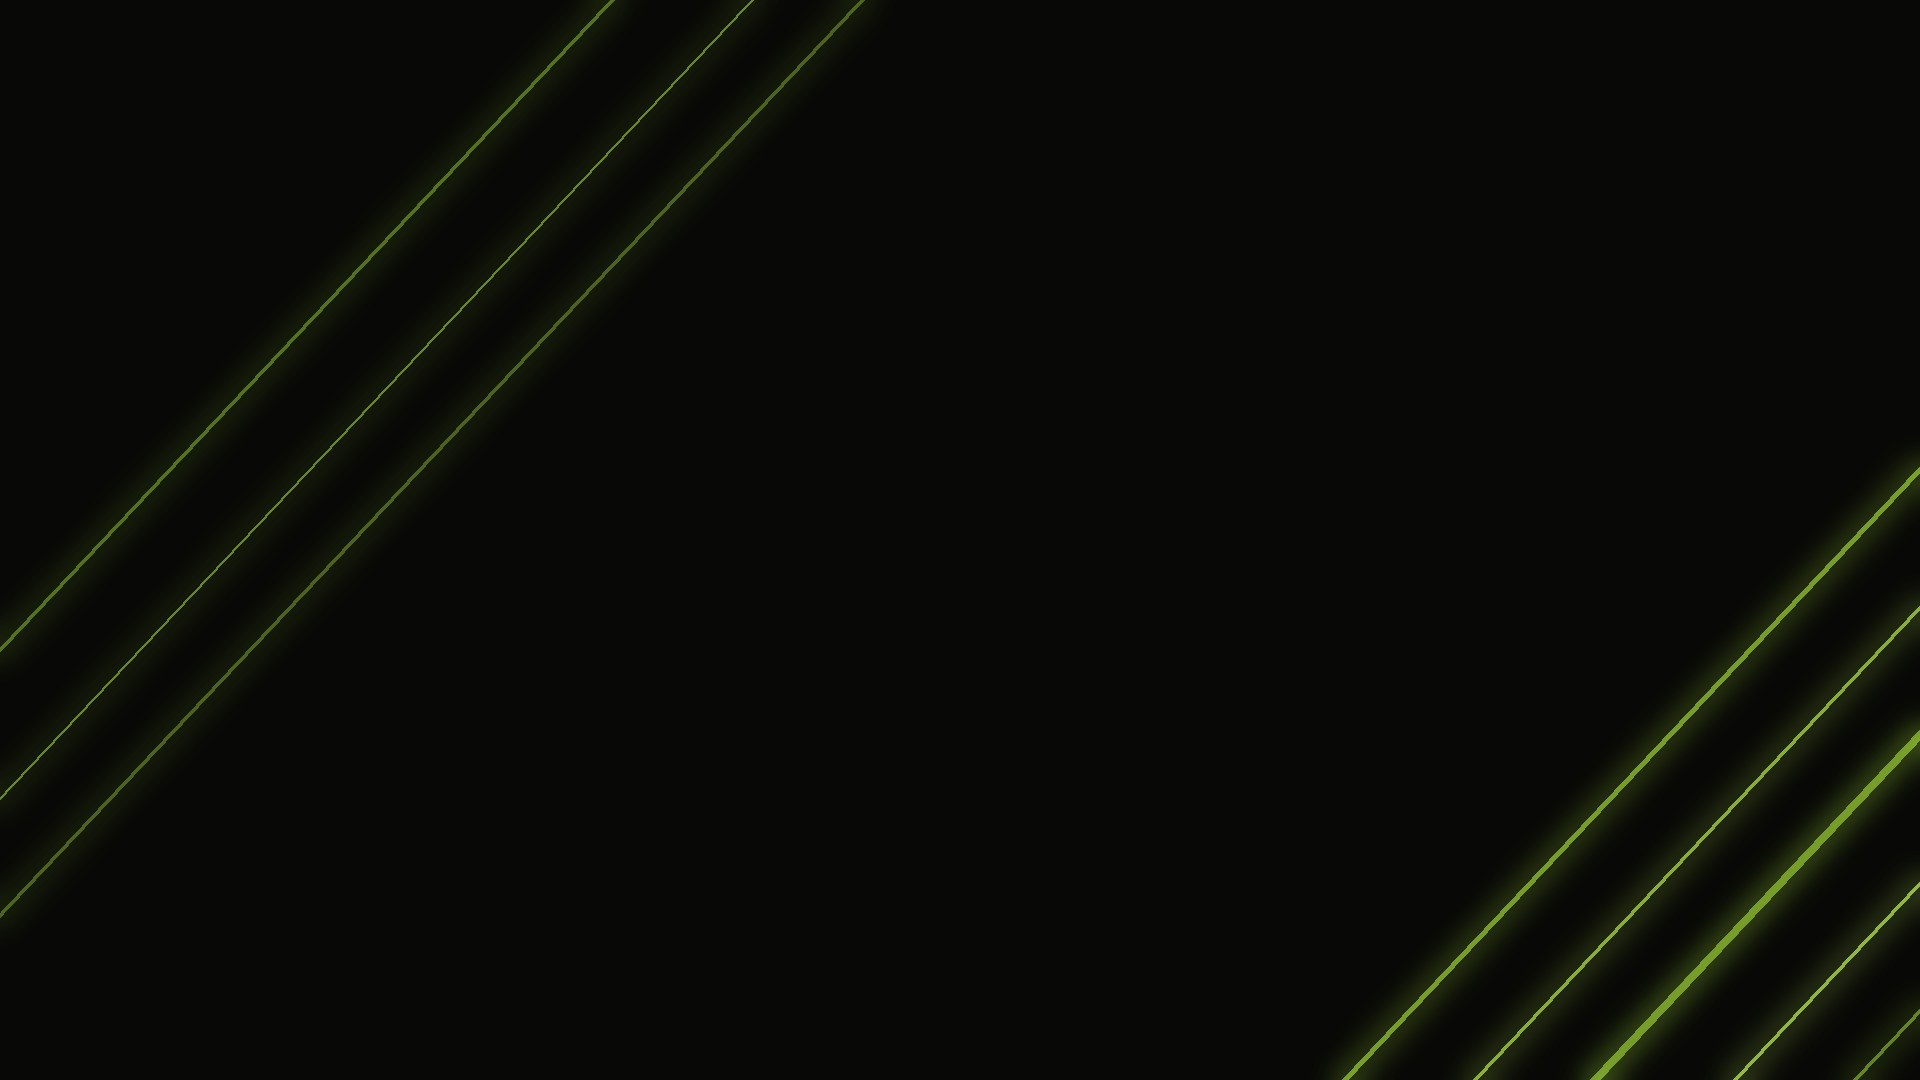
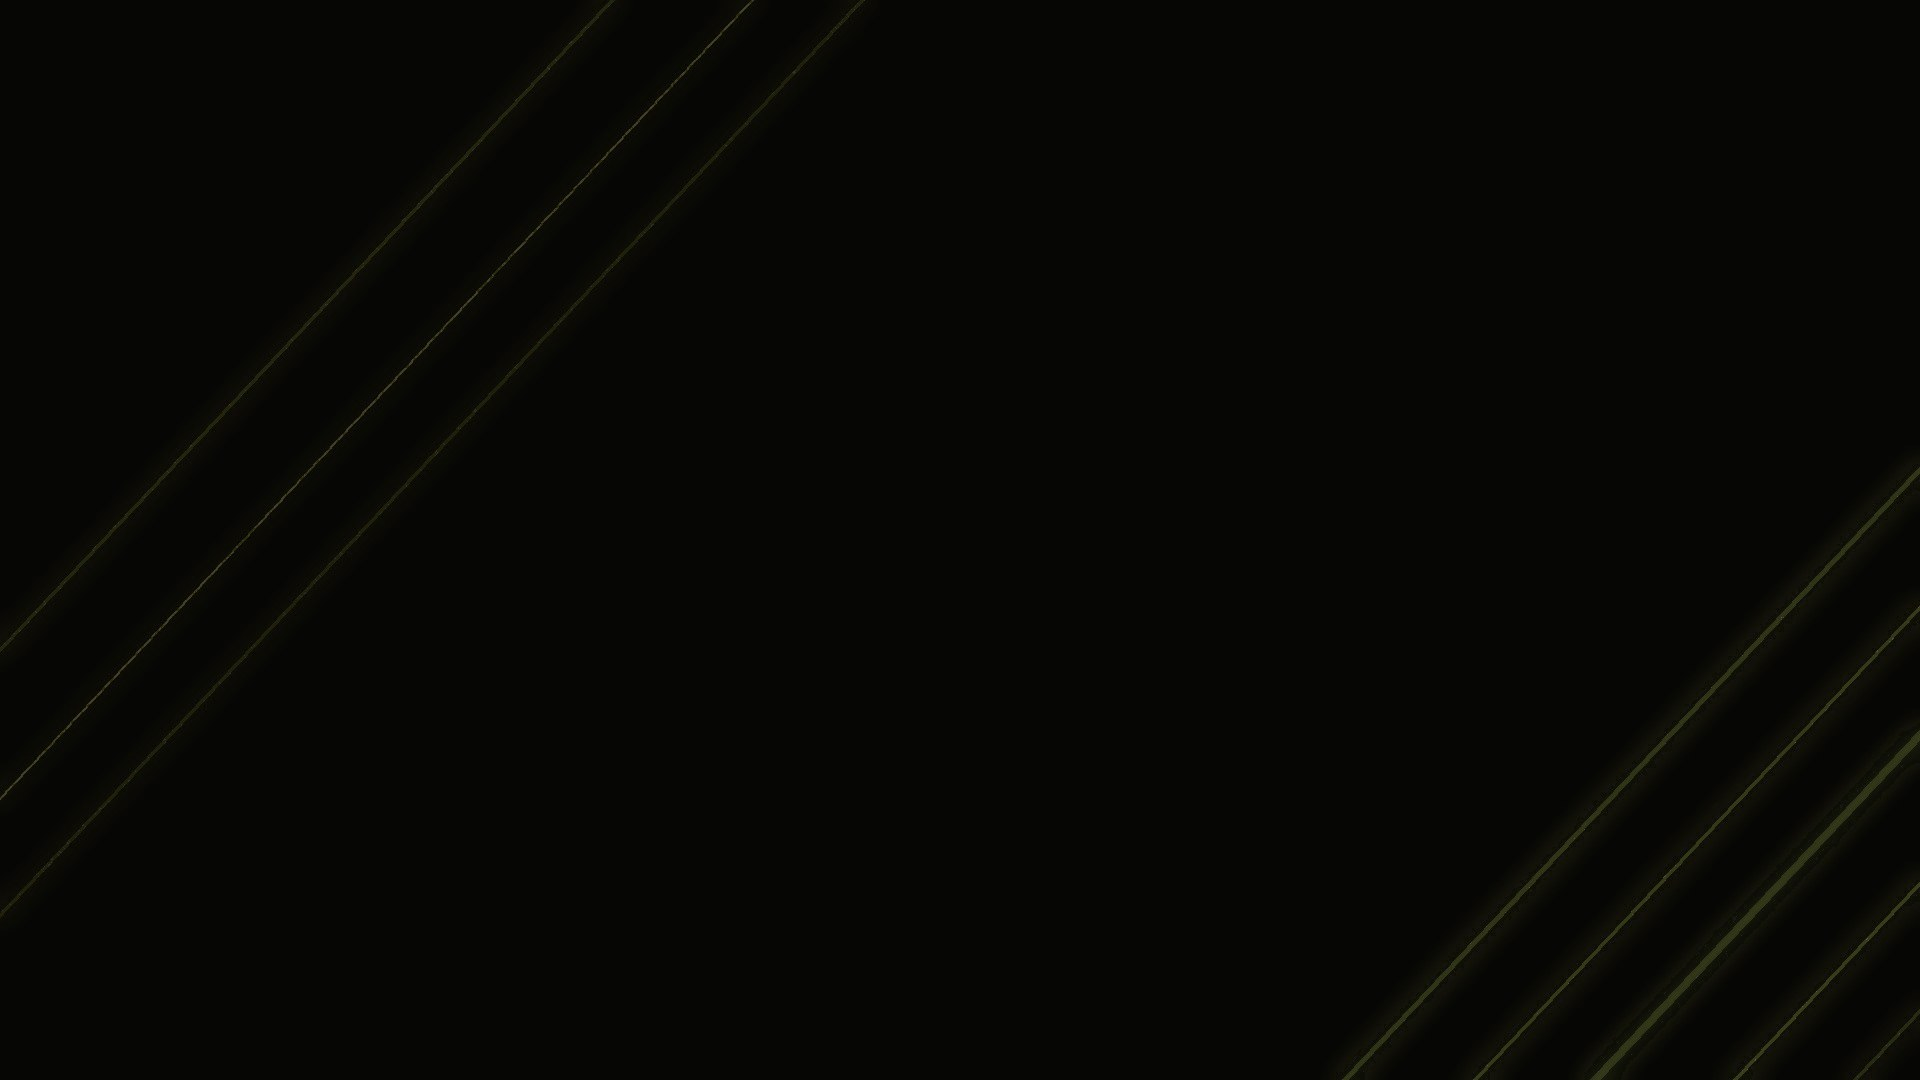
Deeper brown olive palette

diff --git a/index.html b/index.html
@@ -6,25 +6,25 @@
 <link href="https://fonts.googleapis.com/css2?family=Oswald:wght@500;700&display=swap" rel="stylesheet">
 <style>
 html,body{margin:0;height:100%;color:#ece8d9;font-family:Oswald,'Arial Narrow',Arial,sans-serif;overflow:hidden;display:flex;flex-direction:column;background:#080906 url(bg.jpg) center/cover no-repeat}
-.top{display:flex;align-items:center;justify-content:space-between;padding:.6vw 2.2vw;background:linear-gradient(180deg,rgba(0,0,0,.85),rgba(0,0,0,.55));border-bottom:.25vw solid #6b8e23;box-shadow:0 .3vw 1.5vw rgba(107,142,35,.45);white-space:nowrap}
+.top{display:flex;align-items:center;justify-content:space-between;padding:.6vw 2.2vw;background:linear-gradient(180deg,rgba(0,0,0,.85),rgba(0,0,0,.55));border-bottom:.25vw solid #525a2a;box-shadow:0 .3vw 1.5vw rgba(82,90,42,.45);white-space:nowrap}
 .top img{height:4.4vw;display:block}
-.top h1{margin:0;font-size:3vw;font-weight:700;letter-spacing:.15vw;text-shadow:0 0 1vw rgba(154,205,50,.35)}
-.top .t{font-size:1.6vw;font-weight:500;color:#a8c95a;text-align:right;line-height:1.2}
+.top h1{margin:0;font-size:3vw;font-weight:700;letter-spacing:.15vw;text-shadow:0 0 1vw rgba(110,118,56,.35)}
+.top .t{font-size:1.6vw;font-weight:500;color:#8b9150;text-align:right;line-height:1.2}
 .wrap{flex:1;min-height:0;display:flex;gap:1.4vw;padding:1.2vw 2.2vw .6vw}
-.col{flex:1;display:flex;flex-direction:column;background:rgba(6,8,4,.84);border:.2vw solid #6b8e23;border-radius:1vw;padding:.9vw 1.4vw;box-shadow:0 0 1.4vw rgba(107,142,35,.35),inset 0 0 1vw rgba(107,142,35,.12)}
-.col h2{margin:0;font-size:2.5vw;font-weight:700;color:#a8c95a;letter-spacing:.12vw;display:flex;justify-content:space-between;align-items:baseline}
+.col{flex:1;display:flex;flex-direction:column;background:rgba(6,8,4,.84);border:.2vw solid #525a2a;border-radius:1vw;padding:.9vw 1.4vw;box-shadow:0 0 1.4vw rgba(82,90,42,.35),inset 0 0 1vw rgba(82,90,42,.12)}
+.col h2{margin:0;font-size:2.5vw;font-weight:700;color:#8b9150;letter-spacing:.12vw;display:flex;justify-content:space-between;align-items:baseline}
 .col h2 small{font-size:1.6vw;color:#ece8d9;font-weight:500}
-.sub{font-size:1.7vw;font-weight:500;background:rgba(107,142,35,.18);border-left:.45vw solid #8fb339;padding:.25vw .8vw;margin:.5vw 0 .2vw}
-.rds{font-size:1.5vw;color:#9a9a8a;font-weight:500;letter-spacing:.1vw;margin-top:.3vw}
+.sub{font-size:1.7vw;font-weight:500;background:rgba(82,90,42,.18);border-left:.45vw solid #6f7438;padding:.25vw .8vw;margin:.5vw 0 .2vw}
+.rds{font-size:1.5vw;color:#9a9684;font-weight:500;letter-spacing:.1vw;margin-top:.3vw}
 .list{flex:1;display:flex;flex-direction:column;justify-content:space-evenly}
 .it{display:flex;align-items:baseline;line-height:1.1}
-.it .k{color:#a8c95a;font-weight:700;flex:0 0 4.6vw;font-size:2.4vw}
+.it .k{color:#8b9150;font-weight:700;flex:0 0 4.6vw;font-size:2.4vw}
 .it .n{font-size:2.4vw;font-weight:700}
 .it .d{display:block;font-size:1.5vw;color:#c9c6b4;font-weight:500;margin-top:.15vw}
 .lift .it .k{font-size:1.7vw;flex-basis:4.6vw}
 .lift .it .n{font-size:2.2vw}
-.foot{text-align:center;font-size:1.7vw;color:#a8a890;font-weight:500;letter-spacing:.2vw;padding:.2vw 0 .9vw}
-.foot i{font-style:normal;color:#8fb339}
+.foot{text-align:center;font-size:1.7vw;color:#a39d86;font-weight:500;letter-spacing:.2vw;padding:.2vw 0 .9vw}
+.foot i{font-style:normal;color:#6f7438}
 .stack{flex:1;display:flex;flex-direction:column;gap:1.2vw;min-height:0}
 .stack .col{flex:none}
 .stack .warm .list{justify-content:center;padding-top:.4vw}
@@ -32,7 +32,7 @@ html,body{margin:0;height:100%;color:#ece8d9;font-family:Oswald,'Arial Narrow',A
 .wrap{display:grid;grid-template-columns:repeat(3,minmax(0,1fr))}
 *{box-sizing:border-box}
 .rest1{margin:.4vw 0 0;text-align:center}
-.rds{font-size:2.3vw;color:#ece8d9;font-weight:700;letter-spacing:.35vw;text-align:center;margin:.6vw 0 0;padding:.2vw 0;border-top:.12vw solid rgba(107,142,35,.6);border-bottom:.12vw solid rgba(107,142,35,.6)}
+.rds{font-size:2.3vw;color:#ece8d9;font-weight:700;letter-spacing:.35vw;text-align:center;margin:.6vw 0 0;padding:.2vw 0;border-top:.12vw solid rgba(82,90,42,.6);border-bottom:.12vw solid rgba(82,90,42,.6)}
 </style></head><body>
 <div class="top"><img src="logo.png" alt="Muni Gym"><h1>THURSDAY · OCT 8</h1><div class="t">START 7:00<br>DONE 8:00</div></div>
 <div class="wrap">
